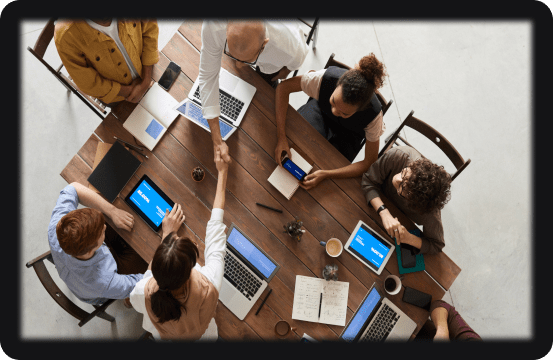
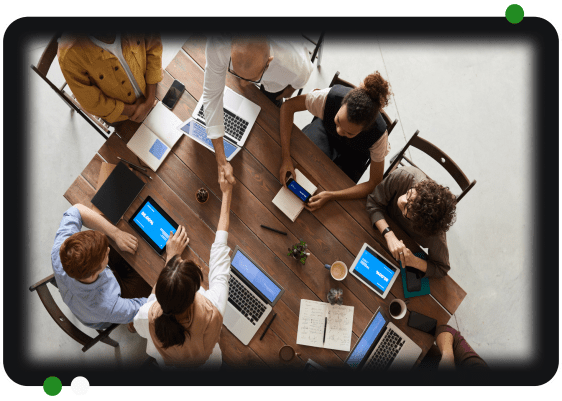
fix font sizes for title and text in the hero and changed photo

diff --git a/src/components/home/Hero/hero.module.scss b/src/components/home/Hero/hero.module.scss
@@ -14,159 +14,104 @@
 
 .hero_title {
   margin-bottom: 16px;
-  font-size: 46px;
+  font-size: 47px;
   line-height: 1.2;
   text-transform: uppercase;
   font-family: "Angry", sans-serif;
+  font-weight: 400;
 
   @include mediaQuery(1280px) {
-    font-size: 72px;
+    font-size: 57px;
+
+  }
+
+  @include mediaQuery(1280px) {
+    font-size: 87px;
     margin-bottom: 24px;
   }
 
   @include mediaQuery(1536px) {
-    font-size: 96px;
-    margin-bottom: 32px;
+    font-size: 97px;
+    margin-bottom: 28px;
   }
 
   @include mediaQuery(1920px) {
     font-size: 107px;
+    margin-bottom: 32px;
   }
 }
 
 .hero_text {
   margin-bottom: 32px;
   @include mediaQuery(768px) {
-    margin-bottom: 21px;
+    font-size: 20px;
+    margin-bottom: 24px;
   }
 
   @include mediaQuery(1280px) {
-    font-size: 20px;
-    margin-bottom: 121px;
+    font-size: 26px;
   }
 
   @include mediaQuery(1536px) {
-    font-size: 24px;
-    margin-bottom: 120px;
+    font-size: 30px;
+    margin-bottom: 42px;
   }
 
   @include mediaQuery(1920px) {
     font-size: 36px;
-    margin-bottom: 140px;
+    margin-bottom: 104px;
   }
 }
 
 .hero_image_container {
-  position: relative;
   width: 100%;
-  height: 214px;
-  padding: 25px 12px 20px 41px;
+  height: 242px;
   margin-bottom: 32px;
-  border: 1.34px solid white;
-  border-radius: 12px;
 
   @include mediaQuery(768px) {
-    min-width: 377px;
-    height: 243px;
+    min-width: 346px;
+    height: 347px;
     margin-bottom: 0;
-    padding: 10px 9px 12px 20px;
   }
 
   @include mediaQuery(1280px) {
-    min-width: 598px;
-    height: 380px;
-    padding: 11px 16px 9px 29px;
+    min-width: 562px;
+    height: 401px;
   }
 
   @include mediaQuery(1536px) {
-    min-width: 696px;
-    height: 443px;
-    padding: 20px 0px 1px 36px;
+    min-width: 888px;
+    height: 626px;
   }
 
-  @include mediaQuery(1920px) {
-    min-width: 937px;
-    height: 596px;
-    padding: 25px 2px 4px 47px;
-  }
-
-  &::after {
-    content: "";
-    width: 16px;
-    height: 16px;
-    border-radius: 50%;
-    background-color: var(--border-color);
-    position: absolute;
-    top: 0;
-    right: 51px;
-    transform: translate(-50%, -50%);
-
-    @include mediaQuery(768px) {
-      right: 30px;
-    }
-
-    @include mediaQuery(1280px) {
-      right: 61px;
-    }
-
-    @include mediaQuery(1536px) {
-      right: 11px;
-    }
-  }
-
-  &::before {
-    content: "";
-    display: block;
-    width: 16px;
-    height: 16px;
-    border-radius: 50%;
-    background-color: var(--border-color);
-    box-shadow: 21px 0 0 0 var(--color);
-    position: absolute;
-    top: 100%;
-    left: 16px;
-    transform: translate(-50%, -50%);
-    @include mediaQuery(768px) {
-      left: 32px;
-    }
-
-    @include mediaQuery(1280px) {
-      left: 54px;
-    }
-
-    @include mediaQuery(1536px) {
-      left: 25px;
-    }
-  }
 }
 
 .hero_image {
   display: block;
-  background-image: url("/hero-mob.png");
+  background-image: url("/hero-mobile.png");
   background-size: cover;
   background-position: center;
   width: 100%;
-  min-height: 179px;
+  min-height: 242px;
   border-radius: 12px;
 
   @include mediaQuery(767px) {
     background-image: url("/hero-768.png");
-    min-height: 218px;
+    min-height: 347px;
   }
 
   @include mediaQuery(1280px) {
     background-image: url("/hero-1280.png");
-    min-height: 360px;
+    min-height: 401px;
   }
 
   @include mediaQuery(1536px) {
     background-image: url("/hero-1536.png");
-    min-height: 421px;
+    min-height: 626px;
   }
 
   @include mediaQuery(1920px) {
     background-image: url("/hero-1920.png");
-    min-height: 567px;
   }
 }
 
@@ -187,7 +132,6 @@
   @include mediaQuery(767px) {
     width: 274px;
     height: 44px;
-    font-size: 16px;
     padding-left: 64px;
   }
 
@@ -199,7 +143,7 @@
   }
 
   @include mediaQuery(1536px) {
-    font-size: 24px;
+    font-size: 28px;
     width: 384px;
     height: 53px;
     padding-left: 84px;
@@ -268,23 +212,23 @@
 
   @include mediaQuery(767px) {
     min-width: 274px;
-    margin-right: 59px;
+    margin-right: 16px;
     align-items: start;
   }
 
   @include mediaQuery(1280px) {
     min-width: 486px;
-    margin-right: 113px;
+    margin-right: 12px;
     align-items: start;
   }
 
   @include mediaQuery(1536px) {
     min-width: 576px;
-    margin-right: 144px;
+    margin-right: 24px;
   }
 
   @include mediaQuery(1920px) {
     min-width: 736px;
-    margin-right: 127px;
+
   }
 }

diff --git a/src/components/home/Hero/Hero.tsx b/src/components/home/Hero/Hero.tsx
@@ -13,7 +13,7 @@ const Hero = () => {
         <p className={s.hero_text}>
         Стань частиною динамічної спільноти, яка підтримає твоє зростання, надасть широкий спектр можливостей для розвитку та розкриття твого професійного потенціалу. Обіцяємо, ми перевершимо твої очікування!
         </p>
-        <Link href={AppRouteEnum.SIGN_UP} className={`${s.hero_button} ${roboto} ${s.hiden_mobile}`}>
+        <Link href={AppRouteEnum.SIGN_UP} className={`${s.hero_button} ${roboto.className} ${s.hiden_mobile}`}>
           Зареєструватись
         </Link>
       </div>
@@ -22,7 +22,7 @@ const Hero = () => {
         <div className={s.hero_image}></div>
       </div>
 
-      <Link href={AppRouteEnum.SIGN_UP} className={`${s.hero_button} ${roboto} ${s.hiden_tablet}`}>
+      <Link href={AppRouteEnum.SIGN_UP} className={`${s.hero_button} ${roboto.className} ${s.hiden_tablet}`}>
         Зареєструватись
       </Link>
     </section>
